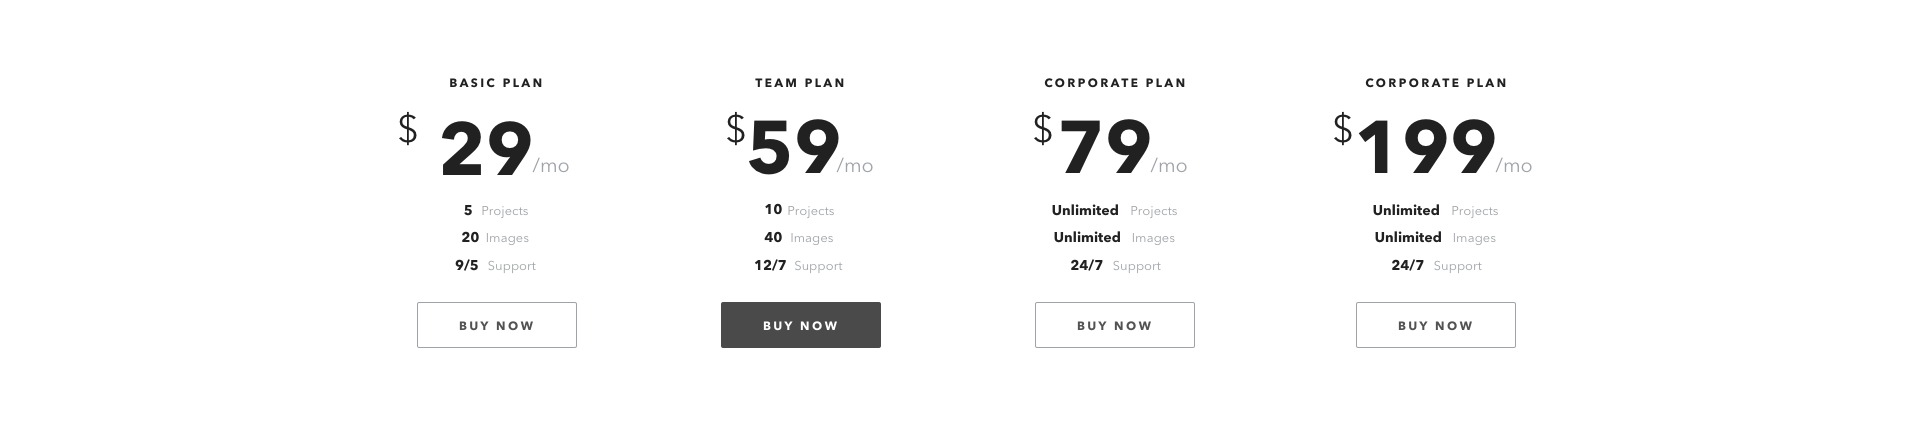
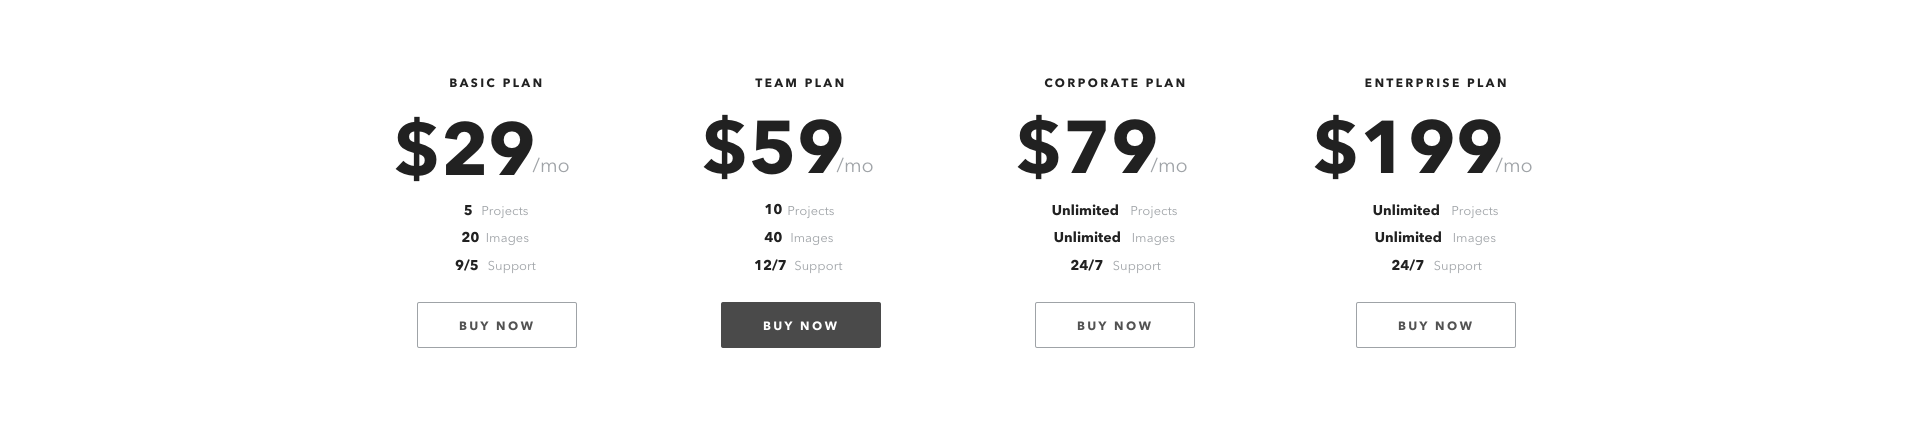
add article 2

diff --git a/stitches.html b/stitches.html
@@ -8,32 +8,11 @@
     <title>Stitches</title>
   </head>
   <body>
-<section class="font-sans container max-w-xl m-auto flex flex-col lg:flex-row justify-center my-8">
-      <div class="order-2 lg:order-1 w-full lg:w-1/4 flex flex-col items-center lg:items-end justify-end text-center lg:text-right ml-0 lg:ml-8 mt-8">
-        <img class="w-6 h-6 rounded-full bg-grey-light mb-2" src="" alt="Avatar of Jonathan Reinink">
-        <h3 class="text-black mb-2 font-light">Feature 1</h3>
-        <p class="text-sm text-grey-dark leading-normal mb-8">Lorem Ipsum is simply dummy text of the printing and typesetting industry.</p>
-        <img class="w-6 h-6 rounded-full bg-grey-light mb-2" src="" alt="Avatar of Jonathan Reinink">
-        <h3 class="text-black mb-2 font-light">Feature 1</h3>
-        <p class="text-sm text-grey-dark leading-normal mb-8">Lorem Ipsum is simply dummy text of the printing and typesetting industry.</p>
-        <img class="w-6 h-6 rounded-full bg-grey-light mb-2" src="" alt="Avatar of Jonathan Reinink">
-        <h3 class="text-black mb-2 font-light">Feature 1</h3>
-        <p class="text-sm text-grey-dark leading-normal">Lorem Ipsum is simply dummy text of the printing and typesetting industry.</p>
-        </div>
-      <div class="order-1 lg:order-2 w-full lg:w-1/2 max-w-xs m-auto mb-6 lg:mb-0">
-        <img src="./demo-phone.png" alt="">
-      </div>
-      <div class="order-last w-full lg:w-1/4 flex flex-col items-center lg:items-start justify-end text-center lg:text-left mt-8 mr-8">
-        <img class="w-6 h-6 rounded-full bg-grey-light mb-2" src="" alt="Avatar of Jonathan Reinink">
-        <h3 class="text-black mb-2 font-light">Feature 1</h3>
-        <p class="text-sm text-grey-dark leading-normal mb-8">Lorem Ipsum is simply dummy text of the printing and typesetting industry.</p>
-        <img class="w-6 h-6 rounded-full bg-grey-light mb-2" src="" alt="Avatar of Jonathan Reinink">
-        <h3 class="text-black mb-2 font-light">Feature 1</h3>
-        <p class="text-sm text-grey-dark leading-normal mb-8">Lorem Ipsum is simply dummy text of the printing and typesetting industry.</p>
-        <img class="w-6 h-6 rounded-full bg-grey-light mb-2" src="" alt="Avatar of Jonathan Reinink">
-        <h3 class="text-black mb-2 font-light">Feature 1</h3>
-        <p class="text-sm text-grey-dark leading-normal">Lorem Ipsum is simply dummy text of the printing and typesetting industry.</p>
-        </div>
+<section class="font-sans container m-auto flex flex-col py-8 max-w-xl text-center px-6">
+      <label class="text-sm uppercase">9 May 2015</label>
+      <h1 class="my-8 max-w-full lg:max-w-md m-auto text-3xl md:text-4xl lg:text-5xl font-light">Lorem Ipsum is simply dummy text of the printing</h1>
+      <p class="mt-0 lg:mt-4 max-w-sm m-auto leading-normal mb-6 text-left">Contrary to popular belief, Lorem Ipsum is not simply random text. It has roots in a piece of classical Latin literature from 45 BC, making it over 2000 years old. Richard McClintock, a Latin professor at Hampden-Sydney College in Virginia, looked up one of the more obscure Latin words, consectetur, from a Lorem Ipsum passage, and going through the cites of the word in classical literature, discovered the undoubtable source. Lorem Ipsum comes from sections 1.10.32 and 1.10.33 of "de Finibus Bonorum et Malorum" (The Extremes of Good and Evil) by Cicero, written in 45 BC. This book is a treatise on the theory of ethics, very popular during the Renaissance. The first line of Lorem Ipsum, "Lorem ipsum dolor sit amet..", comes from a line in section 1.10.32.</p>
+      <p class="max-w-sm m-auto leading-normal mb-6 text-left">The standard chunk of Lorem Ipsum used since the 1500s is reproduced below for those interested. Sections 1.10.32 and 1.10.33 from "de Finibus Bonorum et Malorum" by Cicero are also reproduced in their exact original form, accompanied by English versions from the 1914 translation by H. Rackham.</p>
     </section>
   </body>
 </html>

diff --git a/templates/pricing-1.html b/templates/pricing-1.html
@@ -1,0 +1,42 @@
+<section class="font-sans container m-auto max-w-md xl:max-w-lg flex flex-col flex-wrap sm:flex-row justify-center">
+  <div class="w-full sm:w-1/2 lg:w-1/4 text-center py-8">
+    <label for="" class="uppercase tracking-loose font-bold text-sm">Basic Plan</label>
+    <h1 for="" class="uppercase tracking-loose font-bold text-5xl my-2">$29<span class="text-grey-dark font-light text-xs">/mo</span></h1>
+    <p class="my-2 text-grey-darker"><strong class="text-black pr-2">5</strong>Projects</p>
+    <p class="my-2 text-grey-darker"><strong class="text-black pr-2">20</strong>Images</p>
+    <p class="mt-2 mb-6 text-grey-darker"><strong class="text-black pr-2">9/5</strong>Support</p>
+    <button class="bg-transparent hover:bg-black text-black-dark font-semibold hover:text-white py-2 px-4 border border-black hover:border-transparent">
+    Buy Now
+    </button>
+  </div>
+  <div class="w-full sm:w-1/2 lg:w-1/4 text-center py-8">
+    <label for="" class="uppercase tracking-loose font-bold text-sm">Team Plan</label>
+    <h1 for="" class="uppercase tracking-loose font-bold text-5xl my-2">$59<span class="text-grey-dark font-light text-xs">/mo</span></h1>
+    <p class="my-2 text-grey-darker"><strong class="text-black pr-2">10</strong>Projects</p>
+    <p class="my-2 text-grey-darker"><strong class="text-black pr-2">40</strong>Images</p>
+    <p class="mt-2 mb-6 text-grey-darker"><strong class="text-black pr-2">12/7</strong>Support</p>
+    <button class="bg-transparent hover:bg-black text-black-dark font-semibold hover:text-white py-2 px-4 border border-black hover:border-transparent">
+    Buy Now
+    </button>
+  </div>
+  <div class="w-full sm:w-1/2 lg:w-1/4 text-center py-8">
+    <label for="" class="uppercase tracking-loose font-bold text-sm">Corporate Plan</label>
+    <h1 for="" class="uppercase tracking-loose font-bold text-5xl my-2">$79<span class="text-grey-dark font-light text-xs">/mo</span></h1>
+    <p class="my-2 text-grey-darker"><strong class="text-black pr-2">Unlimited</strong>Projects</p>
+    <p class="my-2 text-grey-darker"><strong class="text-black pr-2">Unlimited</strong>Images</p>
+    <p class="mt-2 mb-6 text-grey-darker"><strong class="text-black pr-2">24/7</strong>Support</p>
+    <button class="bg-transparent hover:bg-black text-black-dark font-semibold hover:text-white py-2 px-4 border border-black hover:border-transparent">
+    Buy Now
+    </button>
+  </div>
+  <div class="w-full sm:w-1/2 lg:w-1/4 text-center py-8">
+    <label for="" class="uppercase tracking-loose font-bold text-sm">Enterprise Plan</label>
+    <h1 for="" class="uppercase tracking-loose font-bold text-5xl my-2">$199<span class="text-grey-dark font-light text-xs">/mo</span></h1>
+    <p class="my-2 text-grey-darker"><strong class="text-black pr-2">Unlimited</strong>Projects</p>
+    <p class="my-2 text-grey-darker"><strong class="text-black pr-2">Unlimited</strong>Images</p>
+    <p class="mt-2 mb-6 text-grey-darker"><strong class="text-black pr-2">24/7</strong>Support</p>
+    <button class="bg-transparent hover:bg-black text-black-dark font-semibold hover:text-white py-2 px-4 border border-black hover:border-transparent">
+    Buy Now
+    </button>
+  </div>
+</section>

diff --git a/templates/article-1.html b/templates/article-1.html
@@ -1,0 +1,8 @@
+<section class="font-sans container m-auto flex flex-col md:flex-row py-8 max-w-xl px-6 lg:px-0">
+  <div class="w-full md:w-1/4 border-b md:border-0 mb-6 md:mb-0 pb-6 md:pb-0 pr-8 flex justify-center items-start flex-col">
+    <label for="" class="font-bold">Important Note</label>
+    <p class="leading-normal mt-4 border-0 md:border-r md:pr-2">Nullam gravida sem vel massa pulvinar cursus. In sagittis enim vitae eros ultrices sagittis</p>
+  </div>
+  <div class="w-full md:w-3/4 leading-normal column-0 lg:column-2" "="">Contrary to popular belief, Lorem Ipsum is not simply random text. It has roots in a piece of classical Latin literature from 45 BC, making it over 2000 years old. Richard McClintock, a Latin professor at Hampden-Sydney College in Virginia, looked up one of the more obscure Latin words, consectetur, from a Lorem Ipsum passage, and going through the cites of the word in classical literature, discovered the undoubtable source. Lorem Ipsum comes from sections 1.10.32 and 1.10.33 of "de Finibus Bonorum et Malorum" (The Extremes of Good and Evil) by Cicero, written in 45 BC. This book is a treatise on the theory of ethics, very popular during the Renaissance. The first line of Lorem Ipsum, "Lorem ipsum dolor sit amet..", comes from a line in section 1.10.32.The standard chunk of Lorem Ipsum used since the 1500s is reproduced below for those interested. Sections 1.10.32 and 1.10.33 from "de Finibus Bonorum et Malorum" by Cicero are also reproduced in their exact original form, accompanied by English versions from the 1914 translation by H. Rackham.
+  The standard chunk of Lorem Ipsum used since the 1500s is reproduced below for those interested. </div>
+</section>

diff --git a/public/stitches.css b/public/stitches.css
@@ -8176,6 +8176,16 @@ button,
   order: 99999;
 }
 
+.column-0 {
+  -webkit-column-count: auto;
+          column-count: auto;
+}
+
+.column-2 {
+  -webkit-column-count: 2;
+          column-count: 2;
+}
+
 .-translate-50-50 {
   -webkit-transform: translate(-50%, -50%);
           transform: translate(-50%, -50%);
@@ -15683,6 +15693,16 @@ button,
   .xs\:order-last {
     order: 99999;
   }
+
+  .xs\:column-0 {
+    -webkit-column-count: auto;
+            column-count: auto;
+  }
+
+  .xs\:column-2 {
+    -webkit-column-count: 2;
+            column-count: 2;
+  }
 }
 
 @media (min-width: 480px) {
@@ -23168,6 +23188,16 @@ button,
 
   .sm\:order-last {
     order: 99999;
+  }
+
+  .sm\:column-0 {
+    -webkit-column-count: auto;
+            column-count: auto;
+  }
+
+  .sm\:column-2 {
+    -webkit-column-count: 2;
+            column-count: 2;
   }
 }
 
@@ -30655,6 +30685,16 @@ button,
   .md\:order-last {
     order: 99999;
   }
+
+  .md\:column-0 {
+    -webkit-column-count: auto;
+            column-count: auto;
+  }
+
+  .md\:column-2 {
+    -webkit-column-count: 2;
+            column-count: 2;
+  }
 }
 
 @media (min-width: 992px) {
@@ -38141,6 +38181,16 @@ button,
   .lg\:order-last {
     order: 99999;
   }
+
+  .lg\:column-0 {
+    -webkit-column-count: auto;
+            column-count: auto;
+  }
+
+  .lg\:column-2 {
+    -webkit-column-count: 2;
+            column-count: 2;
+  }
 }
 
 @media (min-width: 1200px) {
@@ -45626,5 +45676,15 @@ button,
 
   .xl\:order-last {
     order: 99999;
+  }
+
+  .xl\:column-0 {
+    -webkit-column-count: auto;
+            column-count: auto;
+  }
+
+  .xl\:column-2 {
+    -webkit-column-count: 2;
+            column-count: 2;
   }
 }

diff --git a/templates/article-2.html b/templates/article-2.html
@@ -1,0 +1,6 @@
+<section class="font-sans container m-auto flex flex-col py-8 max-w-xl text-center px-6">
+  <label class="text-sm uppercase">9 May 2015</label>
+  <h1 class="my-8 max-w-md m-auto text-3xl md:text-4xl lg:text-5xl font-light">Lorem Ipsum is simply dummy text of the printing</h1>
+  <p class="mt-0 lg:mt-4 max-w-sm m-auto leading-normal mb-6 text-left">Contrary to popular belief, Lorem Ipsum is not simply random text. It has roots in a piece of classical Latin literature from 45 BC, making it over 2000 years old. Richard McClintock, a Latin professor at Hampden-Sydney College in Virginia, looked up one of the more obscure Latin words, consectetur, from a Lorem Ipsum passage, and going through the cites of the word in classical literature, discovered the undoubtable source. Lorem Ipsum comes from sections 1.10.32 and 1.10.33 of "de Finibus Bonorum et Malorum" (The Extremes of Good and Evil) by Cicero, written in 45 BC. This book is a treatise on the theory of ethics, very popular during the Renaissance. The first line of Lorem Ipsum, "Lorem ipsum dolor sit amet..", comes from a line in section 1.10.32.</p>
+  <p class="max-w-sm m-auto leading-normal mb-6 text-left">The standard chunk of Lorem Ipsum used since the 1500s is reproduced below for those interested. Sections 1.10.32 and 1.10.33 from "de Finibus Bonorum et Malorum" by Cicero are also reproduced in their exact original form, accompanied by English versions from the 1914 translation by H. Rackham.</p>
+</section>

diff --git a/stitches.css b/stitches.css
@@ -41,6 +41,12 @@
   .order-last {
     order: 99999;
   }
+  .column-0 {
+    column-count: auto;
+  }
+  .column-2 {
+    column-count: 2;
+  }
 }
 .-translate-50-50 {
   transform: translate(-50%, -50%);
